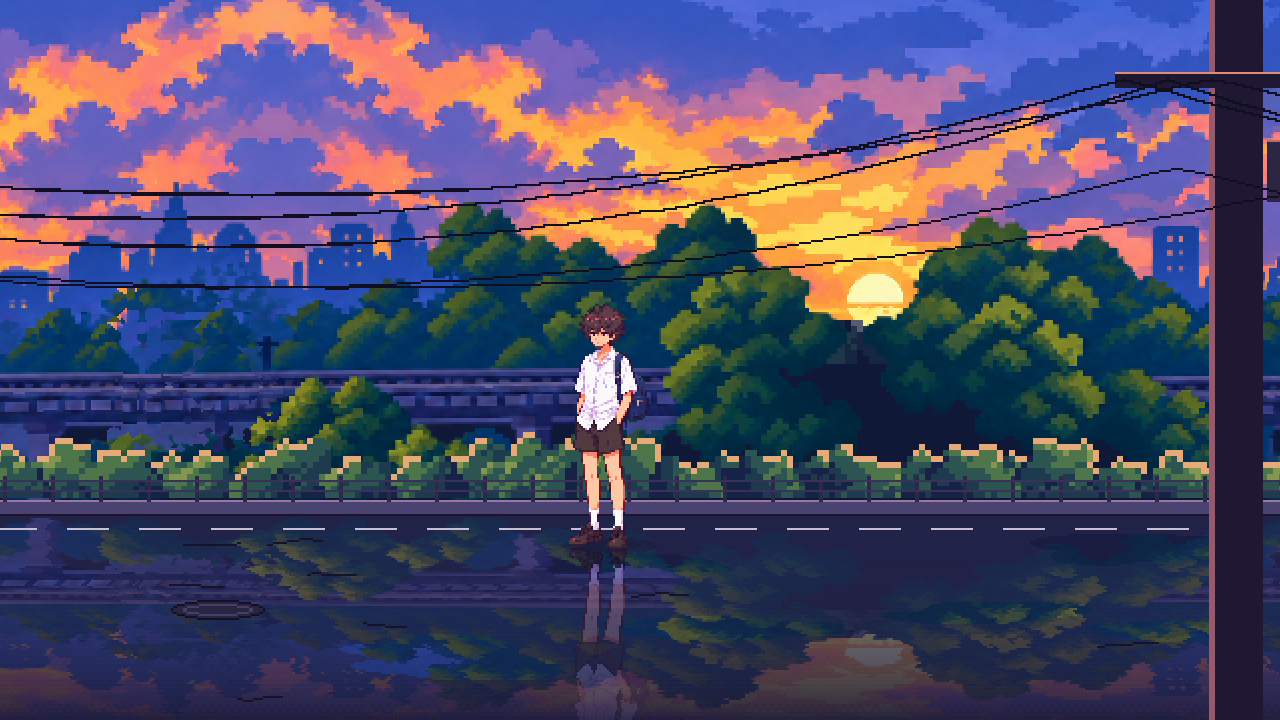
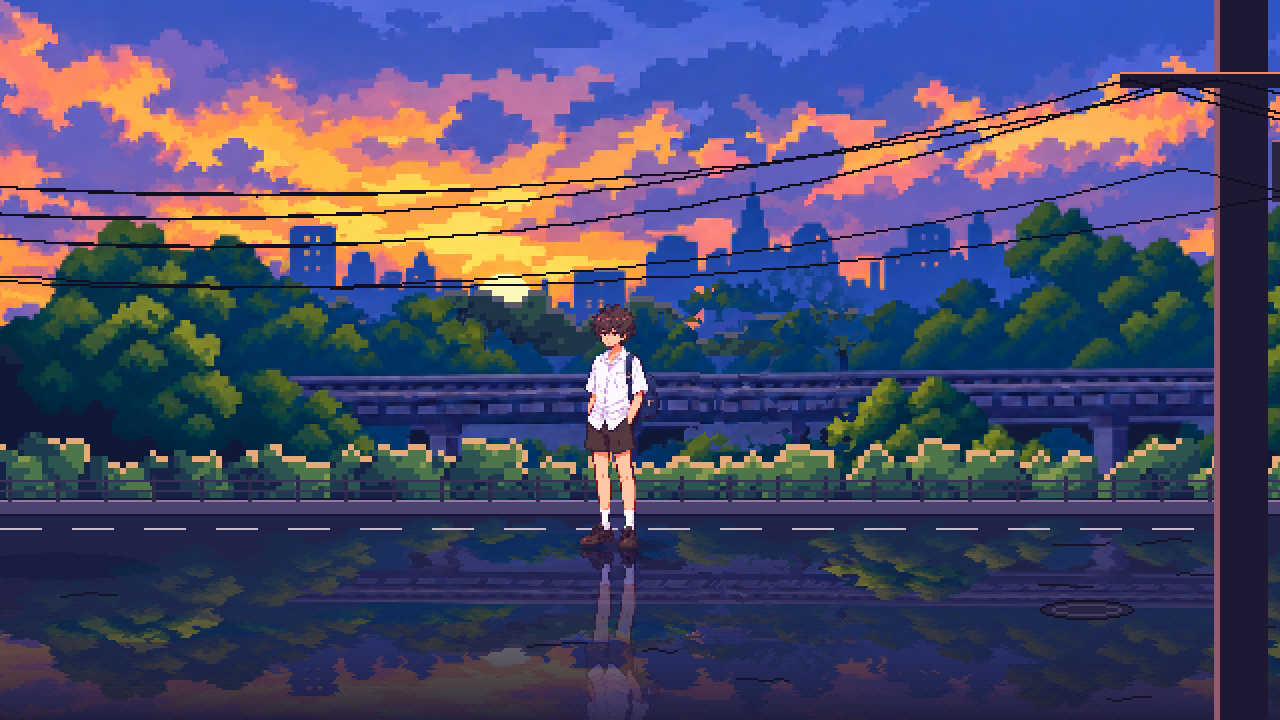
Depth-correct parallax for the sunset scene
- Split the city skyline (blue hues) out of the railway art into its own
  layer; where trees hide it, buildings continue downward (sky gaps such
  as the sun stay open) so no holes appear as the layers slide
- Scroll scales by distance (character ~4 m from camera): sky 0.01,
  city 0.03, trees/viaduct/train 0.12, road 1.0, near pole 1.25, with
  matching city/rail/sky reflection layers
- Sky offset -48 so the sun sits between the buildings as in the art

Claude-Session: https://claude.ai/code/session_011NAKRUA9btL4iodwTEM3Dh

diff --git a/tools/compose_sunset_scene.py b/tools/compose_sunset_scene.py
@@ -8,11 +8,14 @@ Inputs (in art_source/):
 Outputs (assets/bg/sunset/). Every layer tiles seamlessly left-right, so the
 scene can scroll forever (Parallax2D.repeat_size in the game):
   sky.png           sky + its mirror image (1600 wide), sun just above the railway band
-  railway_back.png  railway tile (720 wide) without the train, crossing signal removed
+  city.png          the distant city skyline, split out of the railway art so it can
+                    scroll far slower than the trees (extended down behind the trees)
+  railway_back.png  railway tile (720 wide) without the train or city, crossing signal removed
   railway_fill.png  dark foliage behind the railway (no sky under the trees)
   railway_front.png leaves that stand in front of the train
   train.png         a 3-car train cut from the train image (loops along the viaduct)
   sky_reflect.png   the sky mirrored in the wet road (moves with the sky)
+  city_reflect.png  the city mirrored in the wet road (moves with the city)
   rail_reflect.png  the railway mirrored in the wet road (moves with the railway)
   road.png          wet asphalt (semi-transparent over the reflections), fence, hedge
   foreground.png    near utility pole + wires (960 wide tile)
@@ -92,6 +95,50 @@ def foliage_mask(rgba):
     return (hue > 50) & (hue < 205) & (rgba[..., 3] > 0)
 
 
+def hue_of(rgba):
+    rgb = rgba[..., :3].astype(float) / 255.0
+    mx, mn = rgb.max(2), rgb.min(2)
+    delta = np.maximum(mx - mn, 1e-6)
+    r, g, b = rgb[..., 0], rgb[..., 1], rgb[..., 2]
+    return np.where(mx == r, ((g - b) / delta) % 6, np.where(mx == g, (b - r) / delta + 2, (r - g) / delta + 4)) * 60
+
+
+def split_city(b, bottom=238):
+    """Pull the blue city skyline (and bluish far trees) out of the railway art.
+
+    Returns (city RGBA array, mask). Where trees hide the lower part of the city,
+    each column is extended down with its lowest visible colour, and columns
+    hidden completely reuse the nearest visible column, so no holes appear when
+    the trees slide past the slower city."""
+    hue = hue_of(b)
+    mask = (hue > 215) & (hue < 265) & (b[..., 3] > 0)
+    mask[225:] = False
+    city = np.zeros_like(b)
+    cols = np.where(mask.any(0))[0]
+    if len(cols) == 0:
+        return city, mask
+    filled = np.zeros(b.shape[1], bool)
+    for x in cols:
+        rows = np.where(mask[:, x])[0]
+        top = rows.min()
+        last = b[top, x]
+        for y in range(top, bottom):
+            if mask[y, x]:
+                last = b[y, x]
+                city[y, x] = last
+            elif b[y, x, 3] == 0:
+                continue          # real sky between buildings (e.g. the sun) stays open
+            else:
+                city[y, x] = last  # hidden behind trees: continue the building down
+        filled[x] = True
+    for x in range(cols.min(), cols.max() + 1):
+        if not filled[x]:
+            near = cols[np.argmin(np.abs(cols - x))]
+            hidden = b[:, x, 3] > 0                 # only where something covers this column
+            city[hidden, x] = city[hidden, near]
+    return city, mask
+
+
 def build_railway():
     back = scaled(remove_crossing(Image.open(SRC / "railway.png").convert("RGBA")))
     with_train = scaled(Image.open(SRC / "railway_with_train.png").convert("RGBA"))
@@ -111,11 +158,17 @@ def build_railway():
     front[band0:band1, span1:] = leaves_back[band0:band1, span1:]
     fr = b.copy()
     fr[~front, 3] = 0
+    # --- Distant city goes to its own (much slower) layer
+    city, city_mask = split_city(b)
+    b[city_mask & ~front, 3] = 0
+    back = Image.fromarray(b.astype(np.uint8), "RGBA")
     # Crop to one tile: the art runs from its first tree to its last, so copies
     # placed side by side meet tree-to-tree
     box = (CROP_X0, 0, CROP_X0 + TILE, back.size[1])
     back = back.crop(box)
     back.save(OUT / "railway_back.png")
+    city = Image.fromarray(city.astype(np.uint8), "RGBA").crop(box)
+    city.save(OUT / "city.png")
     Image.fromarray(fr.astype(np.uint8), "RGBA").crop(box).save(OUT / "railway_front.png")
 
     # --- Backfill: dark foliage behind the railway so no sky shows under the trees
@@ -136,7 +189,7 @@ def build_railway():
         d.rectangle((x, ch // 2, x + gap - 1, ch - 6), fill=(40, 36, 70, 255))
     train.save(OUT / "train.png")
     deck_top = int(489 * SCALE)  # top of the viaduct deck in the no-train image
-    return back, fill, train, deck_top
+    return back, fill, city, train, deck_top
 
 
 def mirror(src, src_y, width, darken=0.8, tint=(30, 24, 70)):
@@ -156,11 +209,12 @@ def mirror(src, src_y, width, darken=0.8, tint=(30, 24, 70)):
     return Image.fromarray(np.clip(out, 0, 255).astype(np.uint8), "RGBA")
 
 
-def build_road(sky, fill, back):
+def build_road(sky, city, fill, back):
     """Wet road in side view, as three tiling layers:
     sky_reflect + rail_reflect (they scroll with what they reflect) under a
     semi-transparent asphalt layer that scrolls with the ground."""
     mirror(sky, 0, SKY_TILE).save(OUT / "sky_reflect.png")
+    mirror(city, RAIL_Y, TILE).save(OUT / "city_reflect.png")
     rail = fill.copy()
     rail.alpha_composite(back)
     mirror(rail, RAIL_Y, TILE).save(OUT / "rail_reflect.png")
@@ -289,8 +343,8 @@ def build_foreground():
 if __name__ == "__main__":
     OUT.mkdir(parents=True, exist_ok=True)
     sky = build_sky()
-    back, fill, train, deck_top = build_railway()
-    build_road(sky, fill, back)
+    back, fill, city, train, deck_top = build_railway()
+    build_road(sky, city, fill, back)
     build_foreground()
     print(f"layers written to {OUT}; train {train.size}, train top y in layer = {deck_top - train.size[1]}, "
           f"train clip x in tile = {int(476 * SCALE) - CROP_X0}..{int(1405 * SCALE) - CROP_X0}")

diff --git a/README.md b/README.md
@@ -54,6 +54,16 @@ assets/textures/         texture พิกเซลสำหรับฉาก H
 - `scripts/hero_walker.gd` เดินด้วยลูกศร/A/D (ตอนนี้เด้งขึ้นลงแทนท่าเดิน รอภาพท่าเดิน)
 - กล้อง (`scene_camera.gd`) ตามตัวละคร (`follow`) และ `camera_x` ในบทกลายเป็นระยะเลื่อนกล้องออกจากตัวละคร
 
+**ความเร็วแต่ละชั้น (parallax) ตามระยะจริง:** ตัวละครอยู่ห่างกล้อง ~4 ม. ชั้นที่อยู่ห่าง D เมตรจะเลื่อน ≈ 4/D
+
+| ชั้น | ระยะ | scroll_scale |
+|---|---|---|
+| ท้องฟ้า (+เงาสะท้อน) | ไกลมาก | 0.01 |
+| ตึกในเมือง (+เงาสะท้อน) แยกออกจากภาพทางรถไฟด้วยโทนสีน้ำเงิน แล้วต่อตึกลงไปหลังต้นไม้ | 1–2 กม. | 0.03 |
+| ต้นไม้ สะพานรถไฟ รถไฟ (+เงาสะท้อน) | ~30 ม. | 0.12 |
+| ถนน รั้ว พุ่มไม้ริมรั้ว | ~4 ม. | 1.0 |
+| เสาไฟหน้ากล้อง | ~3 ม. | 1.25 |
+
 **กด Tab สลับฉาก:** ทางรถไฟยามเย็น → ถนนอนิเมะ (`street_anime.tscn`) → HD-2D (`main_3d.tscn`)
 
 ## ฉาก 2D ถนนสไตล์อนิเมะ (วาดด้วยโค้ด)
